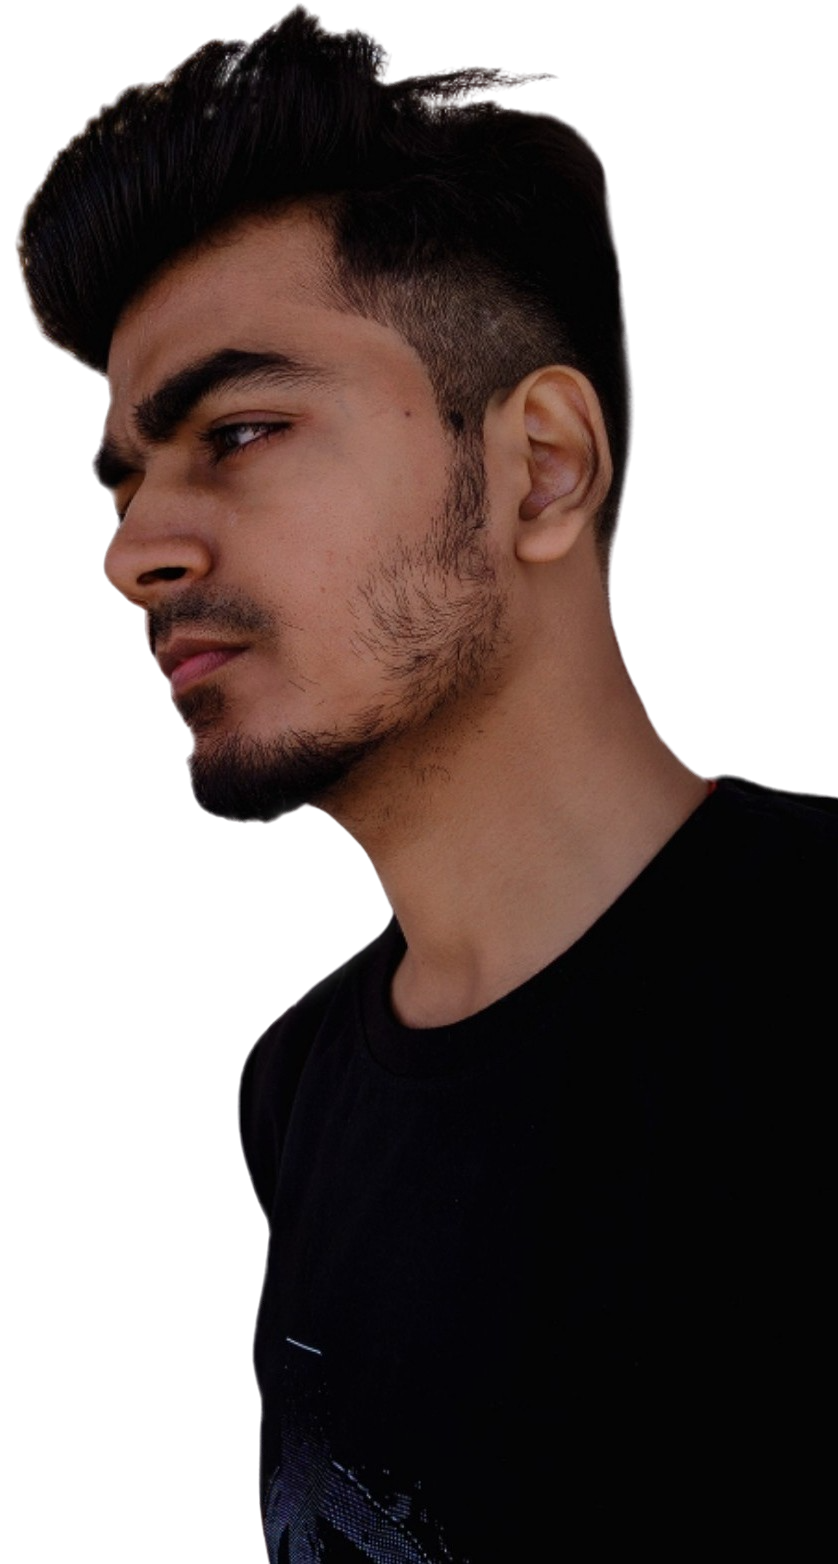
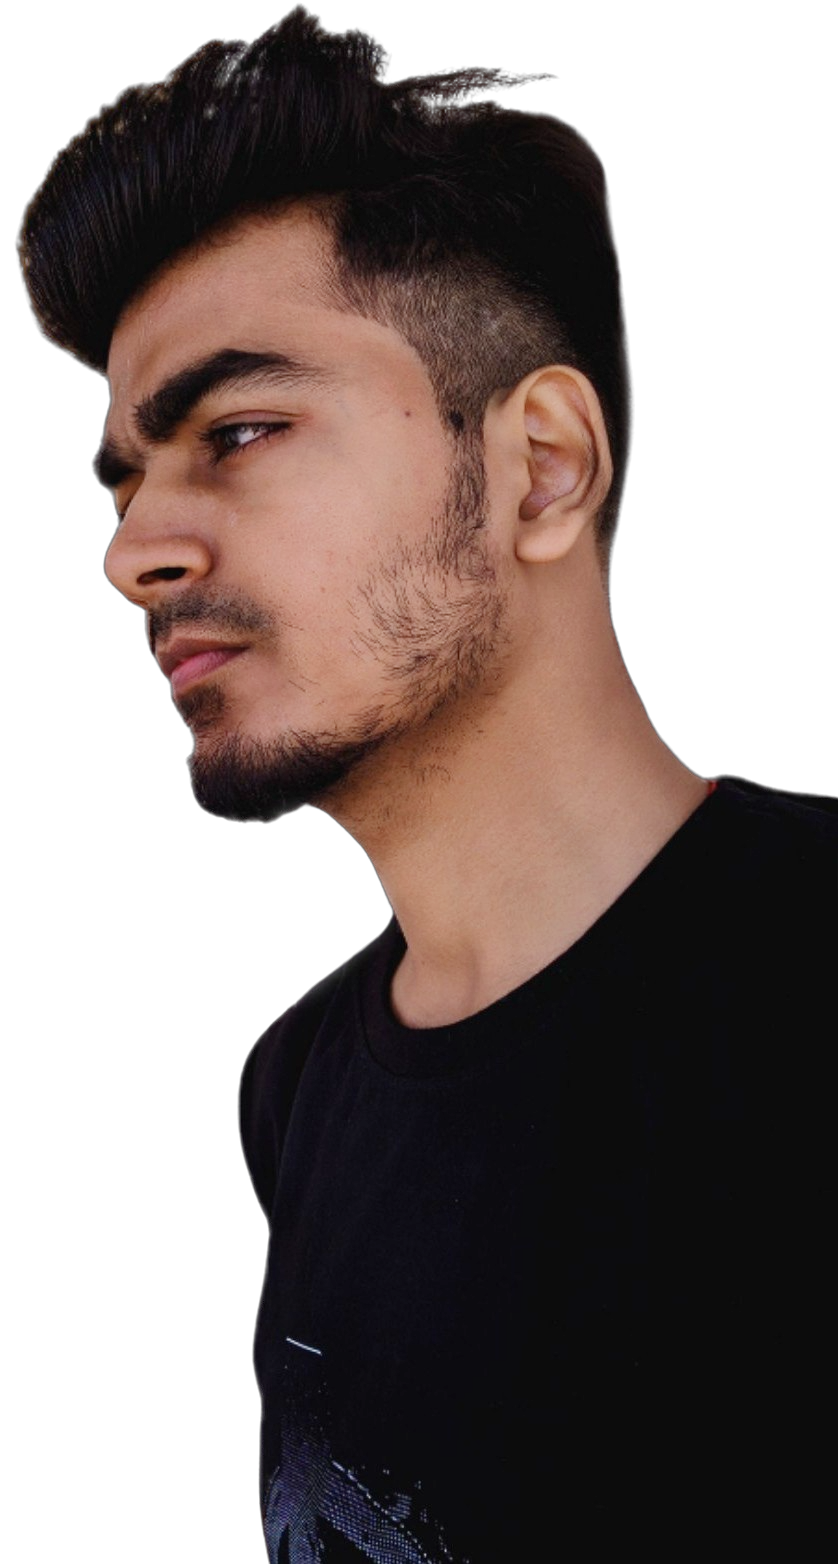
hero-section img

Changed region(s): [[0.1241, 0.1228, 0.8687, 0.6752], [0.3103, 0.9514, 0.4964, 1.0]]

diff --git a/index.html b/index.html
@@ -5,6 +5,7 @@
     <meta name="viewport" content="width=device-width, initial-scale=1.0, user-scalable=false">
     <script src="https://kit.fontawesome.com/0589802bb8.js" crossorigin="anonymous"></script>
     <link rel="stylesheet" href="style.css">
+    <link rel="stylesheet" href="https://unpkg.com/aos@next/dist/aos.css" />
     <title>Saurabh</title>
 </head>
 <body>
@@ -25,7 +26,8 @@
     
     <section class="welcome_section">
         <div class="section1">
-            <div class="welcome_bg">
+            <div class="img-border">
+            <div class="welcome_bg" data-aos="fade-up" >
                 <!-- <svg  viewBox="0 0 799 689" fill="none" xmlns="http://www.w3.org/2000/svg">
     <g clip-path="url(#clip0)">
     <path d="M516.92 624.636C516.92 624.636 512.16 626.266 504.42 628.576C487.31 633.706 455.65 642.216 428.82 643.916C405.72 645.396 386.2 641.836 382.63 626.766C381.1 620.286 383.27 614.956 388 610.576C402.12 597.486 439 592.796 468.25 591.186C476.51 590.736 484.15 590.526 490.51 590.446C501.31 590.306 508.39 590.526 508.39 590.526L508.56 591.186L516.92 624.636Z" fill="#A0616A"/>
@@ -67,8 +69,9 @@
 
     <img src="./hero-profile.png" alt="">
             </div>
+        </div>
         
-            <div class="welcome-section-intro">
+            <div class="welcome-section-intro" data-aos="zoom-out-up">
                 <h2>Passionate<br><span>Web</span> Developer</h2>
                 <p>Love to explore web world.</p>
             <a href="#contactme" class="contact-me-btn">Contact Me</a>
@@ -109,7 +112,7 @@
                 <li>
                   <h3>Front-End</h3> 
                         <ul>
-                            <li>HTML</li>
+                            <li >HTML</li>
                             <li>CSS</li>
                             <li>JavaScript</li>
                             <li>Bootstrap</li>
@@ -138,7 +141,7 @@
 <section class="projects-section">
     <h2>Pro<span>j</span>ects</h2>
     <div class="projects">
-		<div class="project1 pr">
+		<div class="project1 pr" data-aos="fade-up" data-aos-offset="250" data-aos-once="true">
             <div class="project1-info">
                 <h3>Weather App</h3>
                 <p>location search enabled web app for daily weather forecast and air quality index.</p>
@@ -153,7 +156,7 @@
             </div>
             
         </div>
-        <div class="project2 pr">
+        <div class="project2 pr" data-aos="fade-up" data-aos-once="true">
             <div class="project2-info">
                 <h3>CovidTracker</h3>
                 <p>Corona-Tracker is a live covid-19 tracking web app with location search enabled.</p>
@@ -214,6 +217,17 @@
     </div>
   
 </footer>
+
+
+<script src="https://unpkg.com/aos@next/dist/aos.js"></script>
+<script>
+AOS.init({
+    offset: 120,
+    duration:1000,
+});
+
+
+</script>
 
 
 </body>

diff --git a/style.css b/style.css
@@ -83,49 +83,55 @@ html{
 }
 .welcome_bg{
     height: 40rem;
-    overflow: hidden;
+    /* overflow: hidden; */
     width: 40rem;
     /* padding-bottom: 8rem; */
     border-radius: 50%;
     display: flex;
     justify-content: center;
     position: relative;
-    background: #000000;
-    border-bottom:1rem solid #7d75c8;
-    border-top:1rem solid #7d75c8;
+    background: linear-gradient(to right,#6863a5 10%,#000000 60%);
+    /* border-bottom:1rem solid #7d75c8;
+    border-top:1rem solid #7d75c8; */
 }
-.welcome_bg::after{
+/* .welcome_bg::after{
     content: '';
     position: absolute;
-    width: 120%;
-    height: 60%;
-    bottom: 0;
-    background: #f6f3f3;
-    transform: rotateZ(180deg);
+    width: 200%;
+    height: 50%;
+    top: 0;
+    background: #5d579b;
+    transform: rotateZ(90deg);
     border-radius: 50%;
     animation: move 4s infinite alternate-reverse;
     top: -50px;
-
-}
+} */
 
 @keyframes move{
     0%{
-        transform: rotateZ(160deg);
+        transform: rotateZ(130deg);
     }
     50%{
-        transform: rotateZ(185deg);
+        transform: rotateZ(190deg);
     }
     100%{
         transform: rotateZ(180deg);
     }
 }
+.img-border{
+    padding: 2rem;
+    border-left:1rem solid #7d75c8;
+    border-right:1rem solid #7d75c8;
+    border-radius: 50%;
+}
 .welcome_bg img{
     position: absolute;
-    width: 50%;
+    width: 60%;
     bottom: 0;
-    filter: grayscale(100%);
+    filter: grayscale(50%);
     z-index: 1;
-
+    border-bottom-right-radius: 50%;
+    border-bottom-left-radius: 50%;
 }
 /* .welcome_bg svg{
     width: 100%;
@@ -654,3 +660,4 @@ footer .footer-content h2{
     }
     
 }
+
